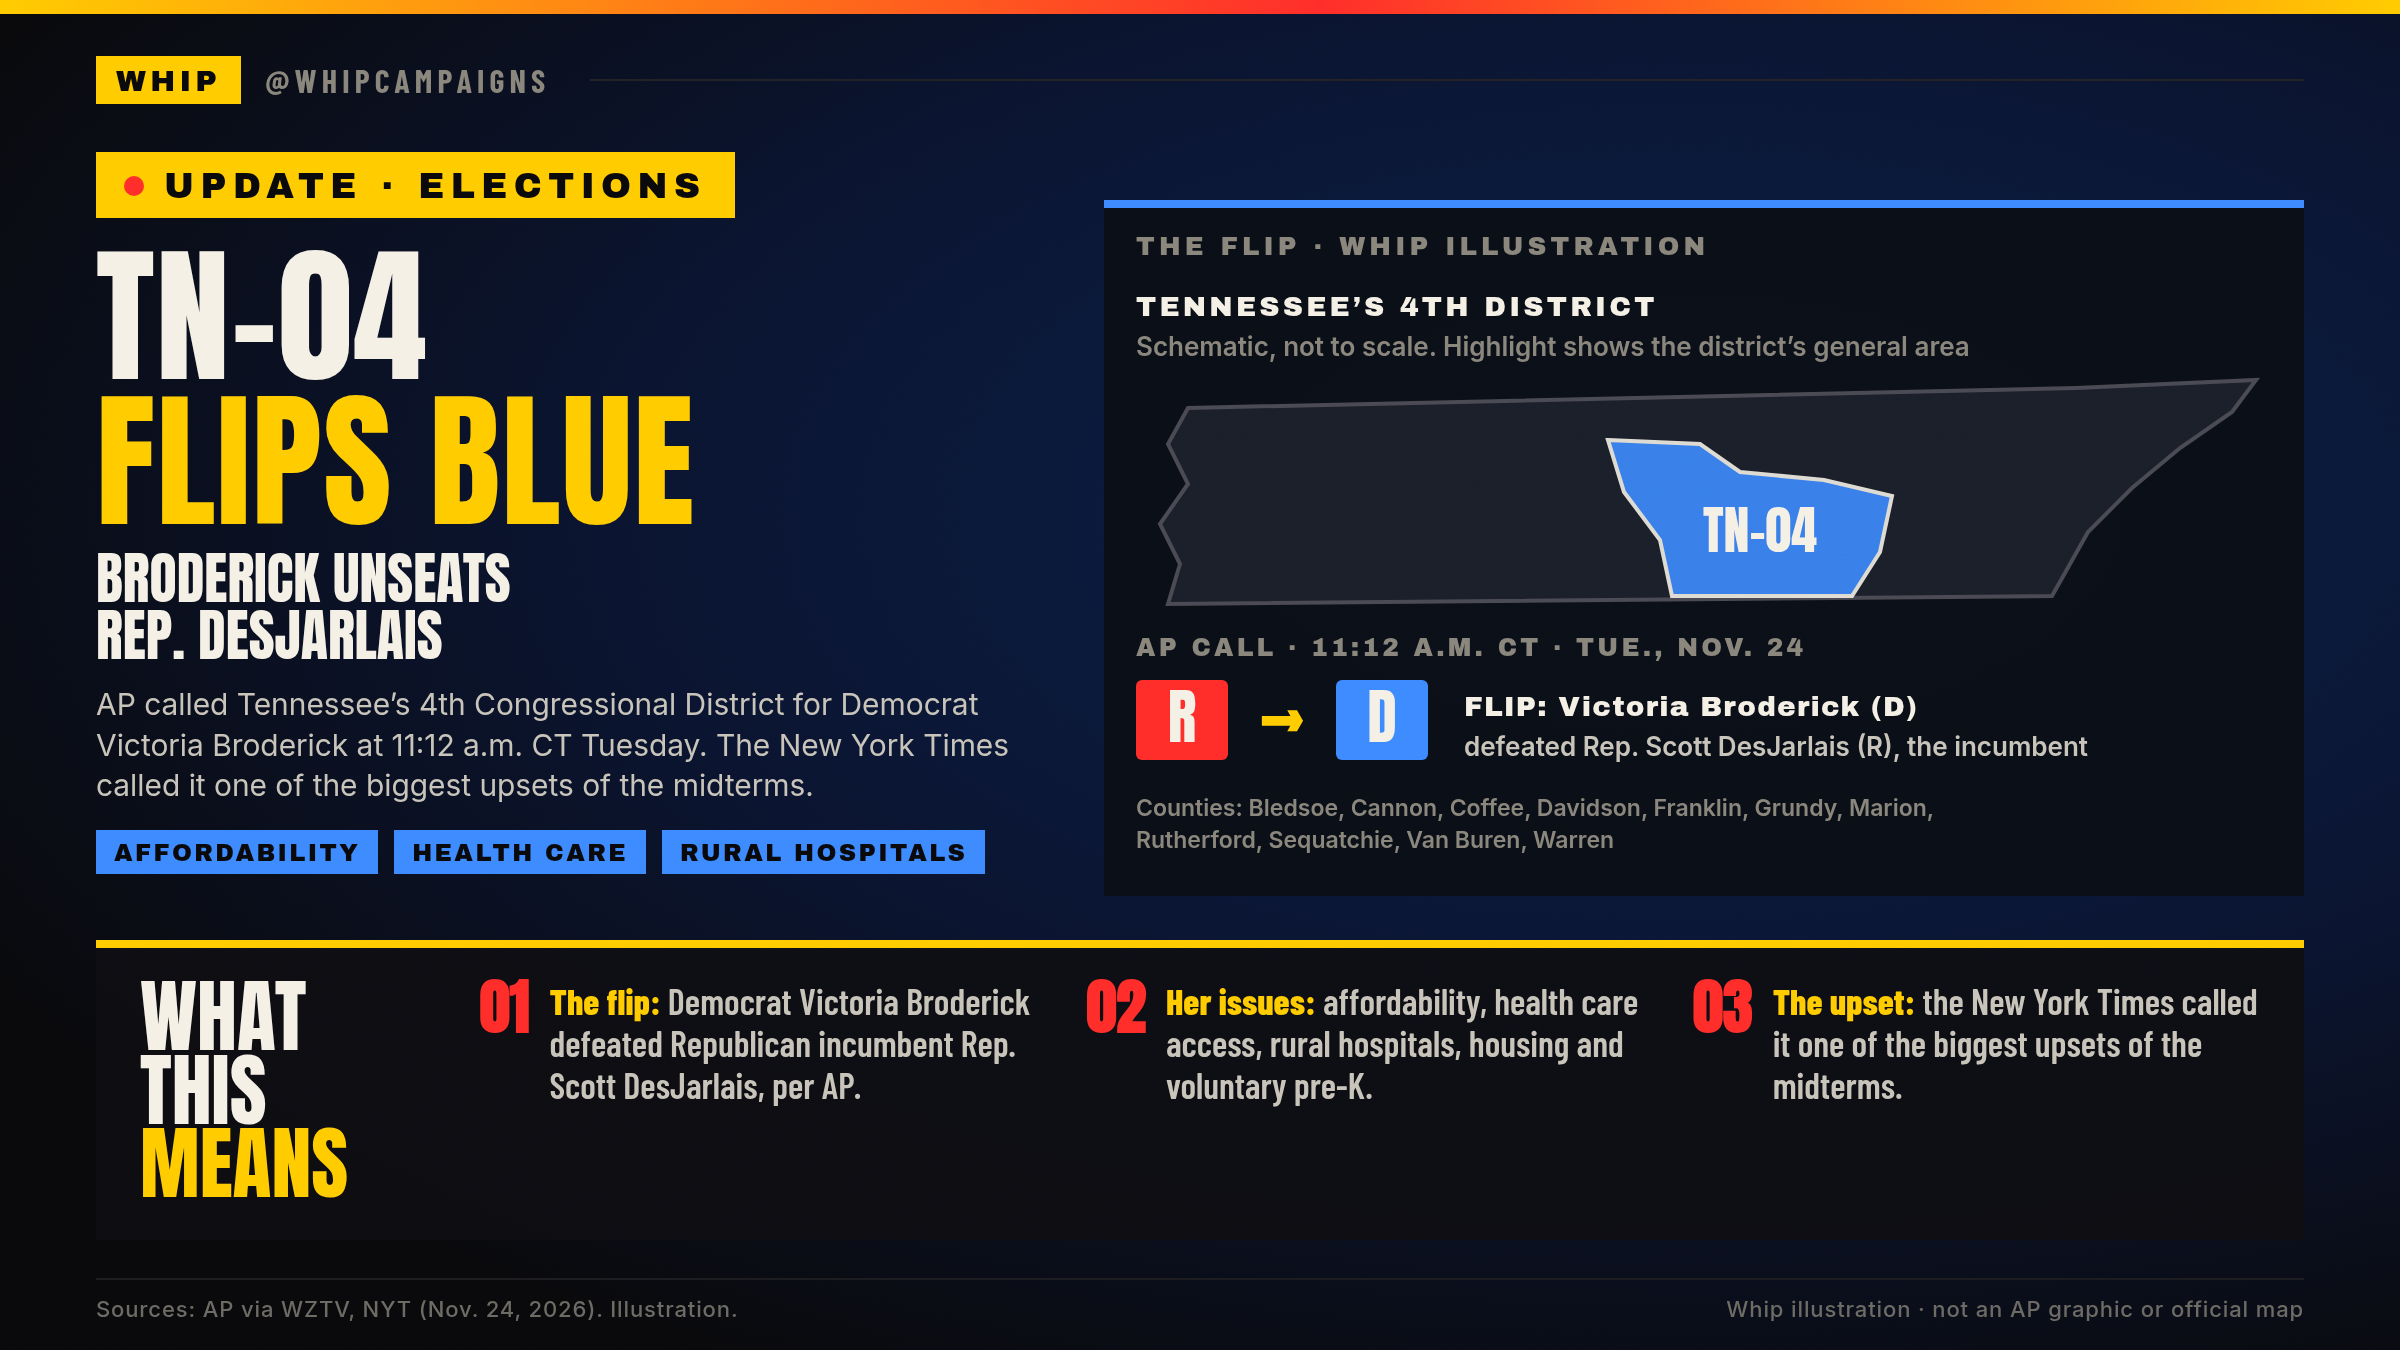
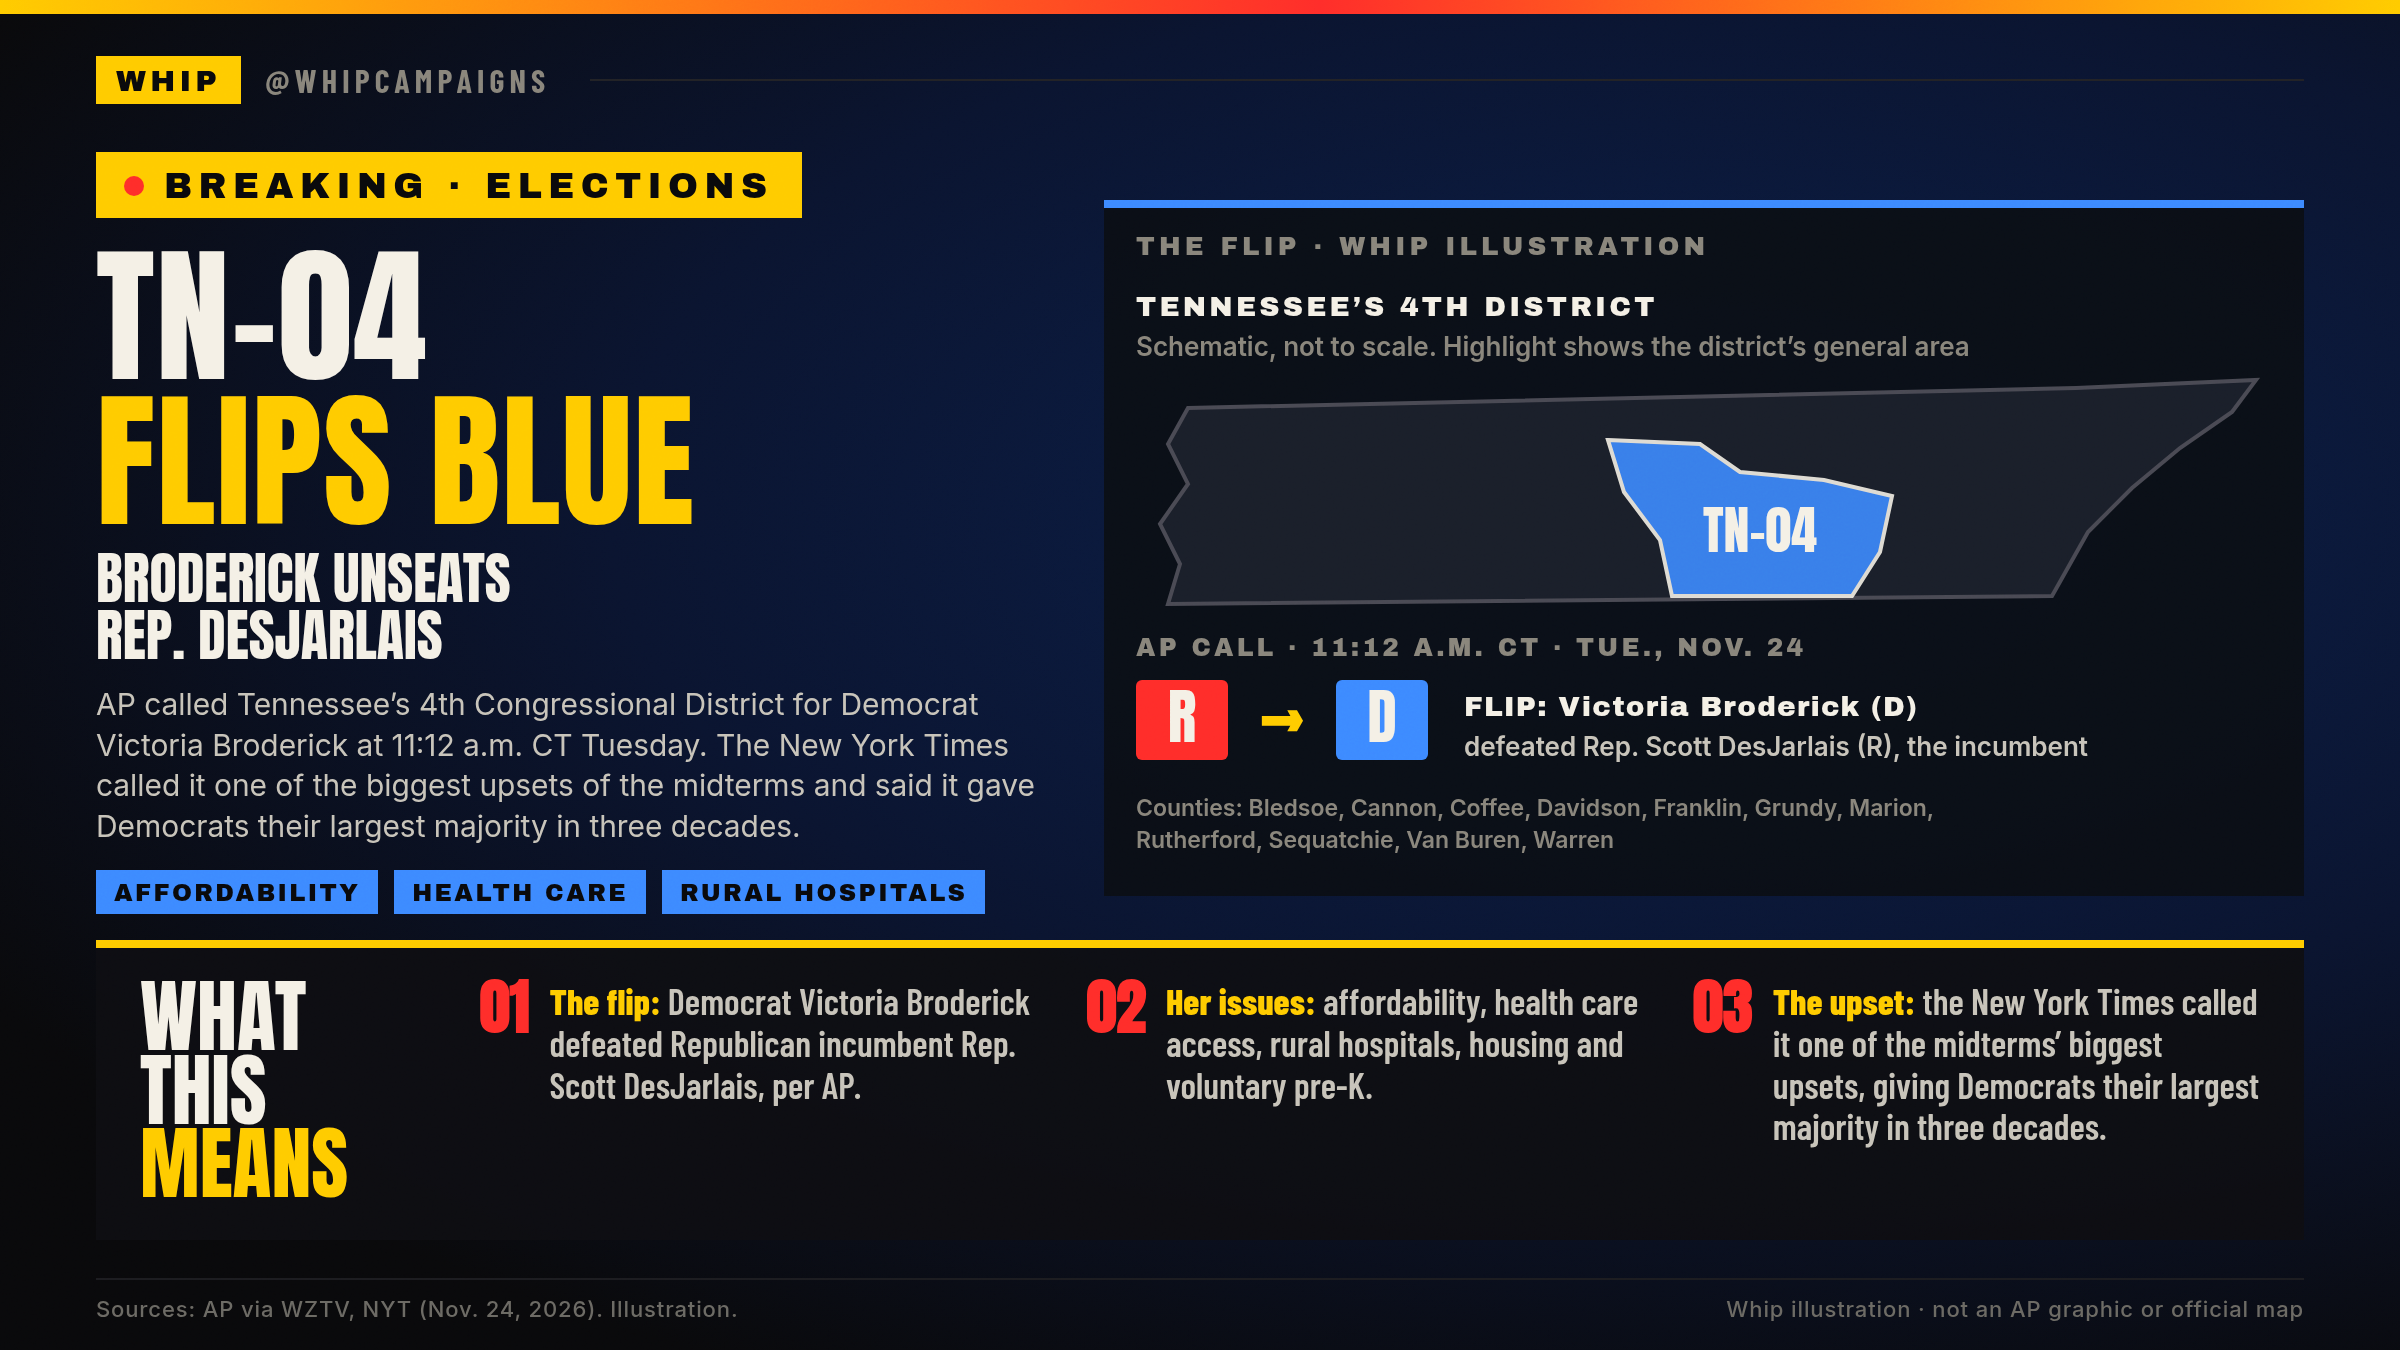
Fix FAA hearings card (early Dec, not Dec. 1; Punchbowl/Politico split) and retag TN-04 as BREAKING

diff --git a/breaking/2026-11-24-faa-hearings-dec/make_card.py b/breaking/2026-11-24-faa-hearings-dec/make_card.py
@@ -1,6 +1,10 @@
 #!/usr/bin/env python3
-"""UPDATE card: DOT Sec. Duffy and FAA Admin. Bedford to testify Dec. 1-2 on the Nov. 13 ground stop and ATC money
-(Tue Nov 24, 2026). Sources: Reuters (via AJOT/Forth), Politico live updates 12:49pm ET Nov 24.
+"""UPDATE card: DOT Sec. Duffy testifies Dec. 2; FAA Admin. Bedford faces a House hearing in early December
+(Tue Nov 24, 2026). Sources: Reuters via AJOT (Nov. 24) for Duffy Dec. 2; Rep. Rick Larsen/Carson statement
+(democrats-transportation.house.gov, Nov. 14) and Punchbowl (Nov. 16) for Bedford in early December.
+Card split: Punchbowl (Nov. 16) and Politico Weekly Transportation (Nov. 16). Dec. 1 not used: Politico
+live update could not be opened (403), and the House T&I calendar lists a Dec. 1 BNATCS hearing but
+does not name Bedford as a witness.
 Draft only. Whip illustration, not a screenshot. No Whip scores. No hook."""
 import shutil, sys, subprocess
 from pathlib import Path
@@ -28,7 +32,7 @@ def tower(x, y):
 
 parts = []
 parts.append(f'<text x="0" y="20" font-family="Archivo Black" font-size="14" letter-spacing="1.6" fill="{PAPER}">THE HEARINGS</text>')
-parts.append(f'<text x="0" y="40" font-family="Inter" font-size="13" font-weight="600" fill="{MUTE}">Schematic timeline. Source: Reuters, Politico</text>')
+parts.append(f'<text x="0" y="40" font-family="Inter" font-size="13" font-weight="600" fill="{MUTE}">Schematic timeline. Sources: Reuters, Punchbowl, Larsen</text>')
 parts.append(tower(4, 112))
 # timeline
 tx0, tx1, ty = 96, 562, 112
@@ -42,19 +46,19 @@ def node(x, date, chamber, who, lines, col):
     for i, ln in enumerate(lines):
         p.append(f'<text x="{x+3}" y="{ty+98+i*18}" font-family="Inter" font-size="11.8" font-weight="600" fill="#c8c4ba">{ln}</text>')
     return "".join(p)
-parts.append(node(108, "DEC. 1", "HOUSE", "FAA Admin. Bryan Bedford",
-                  ["Transportation &amp; Infrastructure", "Committee. Topic: $12.5B from", "last year&rsquo;s law for ATC equipment;", "ground-stop questions expected"], YEL))
+parts.append(node(108, "EARLY DEC.", "HOUSE", "FAA Admin. Bryan Bedford",
+                  ["Transportation &amp; Infrastructure", "Committee, early December,", "per Rep. Rick Larsen. Topics:", "prior ATC funds; ground stop"], YEL))
 parts.append(node(340, "DEC. 2", "SENATE", "Sec. Sean Duffy (DOT)",
                   ["Commerce aviation subcommittee.", "Topics: the Nov. 13 ground stop", "and his $50B request for ATC", "&amp; airport modernization"], RED))
 
 graphic = f'<svg xmlns="http://www.w3.org/2000/svg" width="{W}" height="{H}" viewBox="0 0 {W} {H}">{"".join(parts)}</svg>'
 html = wrap(f"""
-<div class="footer"><span>Sources: Reuters, Politico (Nov. 24, 2026). Illustration.</span><span>Whip illustration &middot; not an FAA or congressional graphic</span></div>
+<div class="footer"><span>Sources: Reuters (Nov. 24); Punchbowl and Politico (Nov. 16); Rep. Rick Larsen. Illustration.</span><span>Whip illustration &middot; not an FAA or congressional graphic</span></div>
 <div class="tag"><span class="dot"></span>UPDATE &middot; FAA GROUND STOP</div>
 <div class="left">
   <div class="h1">CONGRESS<br><span class="y">WANTS ANSWERS</span></div>
-  <div class="h2">DOT &amp; FAA CHIEFS TESTIFY DEC. 1&ndash;2</div>
-  <div class="att">After the Nov. 13 nationwide ground stop, Sec. Duffy raised his air traffic control and airport modernization request to $50 billion, up from $30 billion. Lawmakers from both parties say they need more answers before approving supplemental funding.</div>
+  <div class="h2">DOT &amp; FAA CHIEFS TESTIFY IN DECEMBER</div>
+  <div class="att">After the Nov. 13 nationwide ground stop, Sec. Duffy raised his air traffic control and airport modernization request to $50 billion, up from $30 billion. Democrats are skeptical and point to $12.5 billion already approved but mostly unspent, while Republicans seemed open, per Punchbowl and Politico (Nov. 16).</div>
 </div>
 <div class="panel">
   <div class="ph">ON THE HILL &middot; WHIP ILLUSTRATION</div>
@@ -63,7 +67,7 @@ html = wrap(f"""
 <div class="strip">
   <div class="wt">WHAT THIS<br><span class="y">MEANS</span></div>
   <div class="b"><div class="n">01</div><div><b>First answers:</b> Congress gets its first public answers on the Nov. 13 ground stop before deciding on new air traffic money.</div></div>
-  <div class="b"><div class="n">02</div><div><b>Both parties:</b> lawmakers say they need more answers before approving supplemental funding.</div></div>
+  <div class="b"><div class="n">02</div><div><b>The split:</b> Democrats are skeptical, citing $12.5B approved but mostly unspent; Republicans seemed open, per Punchbowl and Politico (Nov. 16).</div></div>
   <div class="b"><div class="n">03</div><div><b>The ask grew:</b> Duffy raised his request to $50B from $30B after the outage.</div></div>
 </div>
 """, """

diff --git a/breaking/2026-11-24-tn04-broderick/make_card.py b/breaking/2026-11-24-tn04-broderick/make_card.py
@@ -1,6 +1,7 @@
 #!/usr/bin/env python3
-"""UPDATE card: AP calls Tennessee's 4th District for Democrat Victoria Broderick over Rep. Scott DesJarlais (R)
-(Tue Nov 24, 2026, 11:12 a.m. CT). Sources: AP via WZTV/Fox17 and NewsChannel 9; NYT on X (2125285034433056884).
+"""BREAKING card: AP calls Tennessee's 4th District for Democrat Victoria Broderick over Rep. Scott DesJarlais (R)
+(Tue Nov 24, 2026, 11:12 a.m. CT). Sources: AP via WZTV/Fox17 and NewsChannel 9; NYT on X (2125285034433056884)
+and headline, including "largest majority in three decades" / "30 Years," attributed.
 Draft only. Whip illustration; schematic Tennessee outline, not to scale, not a real map or AP graphic.
 No Whip scores. No hook. No total House seat count."""
 import shutil, sys, subprocess
@@ -8,7 +9,7 @@ from pathlib import Path
 sys.path.insert(0, "/home/box/whip/threads/2026-11-14-faa")
 from v4base import wrap
 OUT = Path(__file__).resolve().parent
-NAME = "update-tn04-broderick"
+NAME = "breaking-tn04-broderick"
 FOLDER = "breaking/2026-11-24-tn04-broderick"
 W, H = 568, 300
 RED, YEL, BLU, PAPER, MUTE, INK = "#ff2d2a", "#ffcc00", "#3d8bff", "#f4f0e6", "#8a867c", "#09090b"
@@ -36,11 +37,11 @@ parts.append(f'<text x="0" y="{fy+96}" font-family="Inter" font-size="11.5" font
 graphic = f'<svg xmlns="http://www.w3.org/2000/svg" width="{W}" height="{H}" viewBox="0 0 {W} {H}">{"".join(parts)}</svg>'
 html = wrap(f"""
 <div class="footer"><span>Sources: AP via WZTV, NYT (Nov. 24, 2026). Illustration.</span><span>Whip illustration &middot; not an AP graphic or official map</span></div>
-<div class="tag"><span class="dot"></span>UPDATE &middot; ELECTIONS</div>
+<div class="tag"><span class="dot"></span>BREAKING &middot; ELECTIONS</div>
 <div class="left">
   <div class="h1">TN-04<br><span class="y">FLIPS BLUE</span></div>
   <div class="h2">BRODERICK UNSEATS<br>REP. DESJARLAIS</div>
-  <div class="att">AP called Tennessee&rsquo;s 4th Congressional District for Democrat Victoria Broderick at 11:12 a.m. CT Tuesday. The New York Times called it one of the biggest upsets of the midterms.</div>
+  <div class="att">AP called Tennessee&rsquo;s 4th Congressional District for Democrat Victoria Broderick at 11:12 a.m. CT Tuesday. The New York Times called it one of the biggest upsets of the midterms and said it gave Democrats their largest majority in three decades.</div>
   <div class="chips"><span>Affordability</span><span>Health care</span><span>Rural hospitals</span></div>
 </div>
 <div class="panel">
@@ -51,7 +52,7 @@ html = wrap(f"""
   <div class="wt">WHAT THIS<br><span class="y">MEANS</span></div>
   <div class="b"><div class="n">01</div><div><b>The flip:</b> Democrat Victoria Broderick defeated Republican incumbent Rep. Scott DesJarlais, per AP.</div></div>
   <div class="b"><div class="n">02</div><div><b>Her issues:</b> affordability, health care access, rural hospitals, housing and voluntary pre-K.</div></div>
-  <div class="b"><div class="n">03</div><div><b>The upset:</b> the New York Times called it one of the biggest upsets of the midterms.</div></div>
+  <div class="b"><div class="n">03</div><div><b>The upset:</b> the New York Times called it one of the midterms&rsquo; biggest upsets, giving Democrats their largest majority in three decades.</div></div>
 </div>
 """, """
 body{background:radial-gradient(ellipse at 70% 38%,#0b1f4a 0%,#0a1430 45%,#09090b 82%)}
